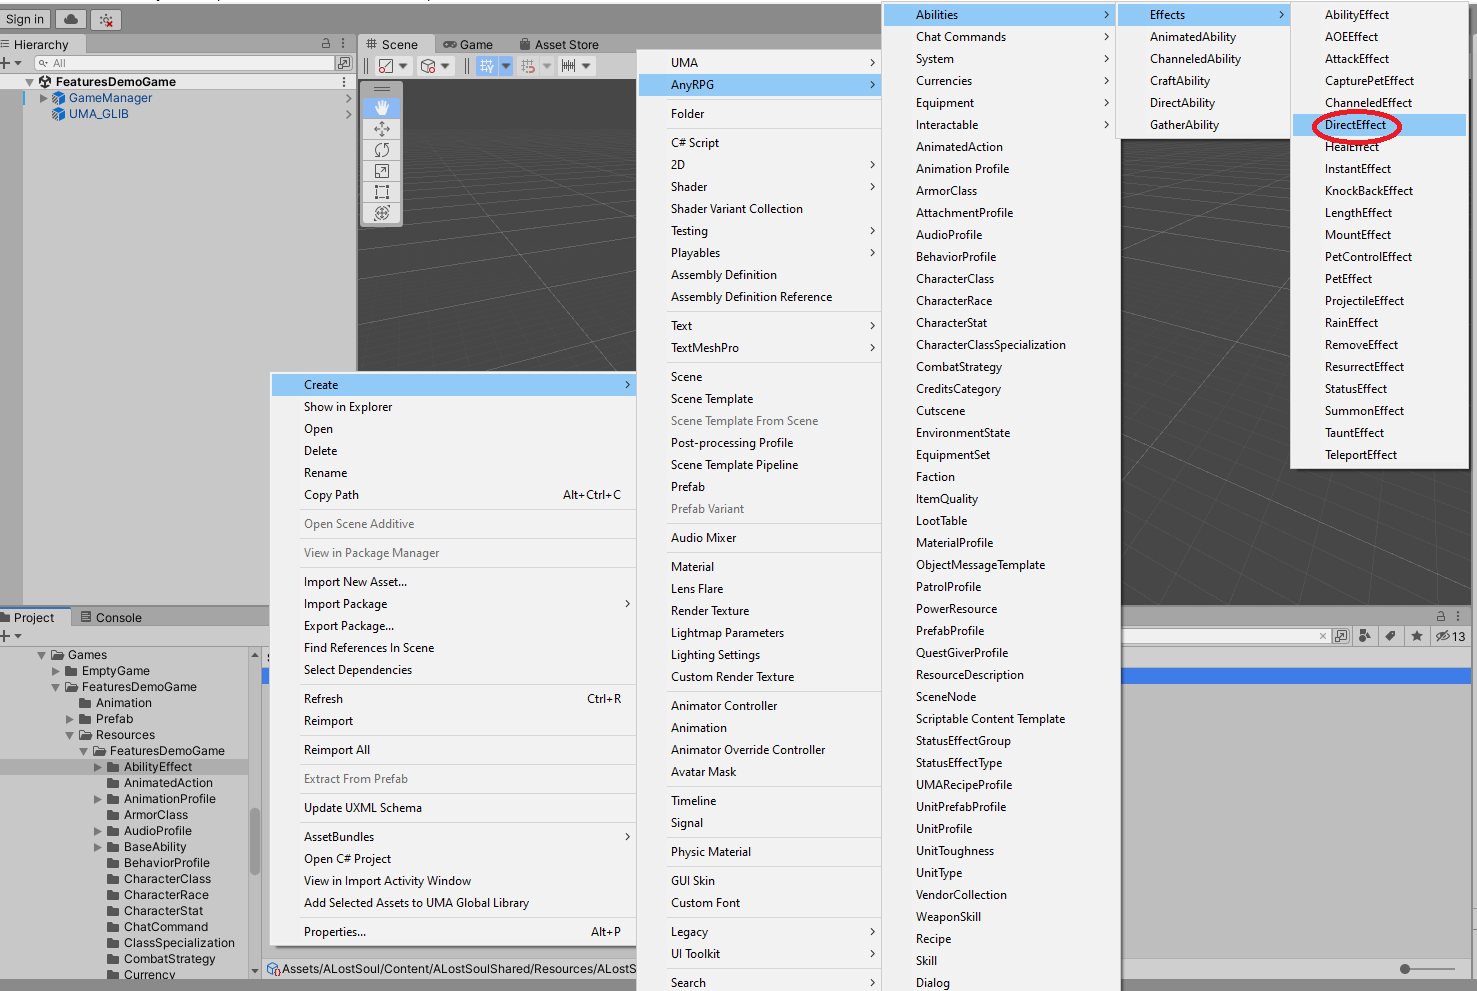
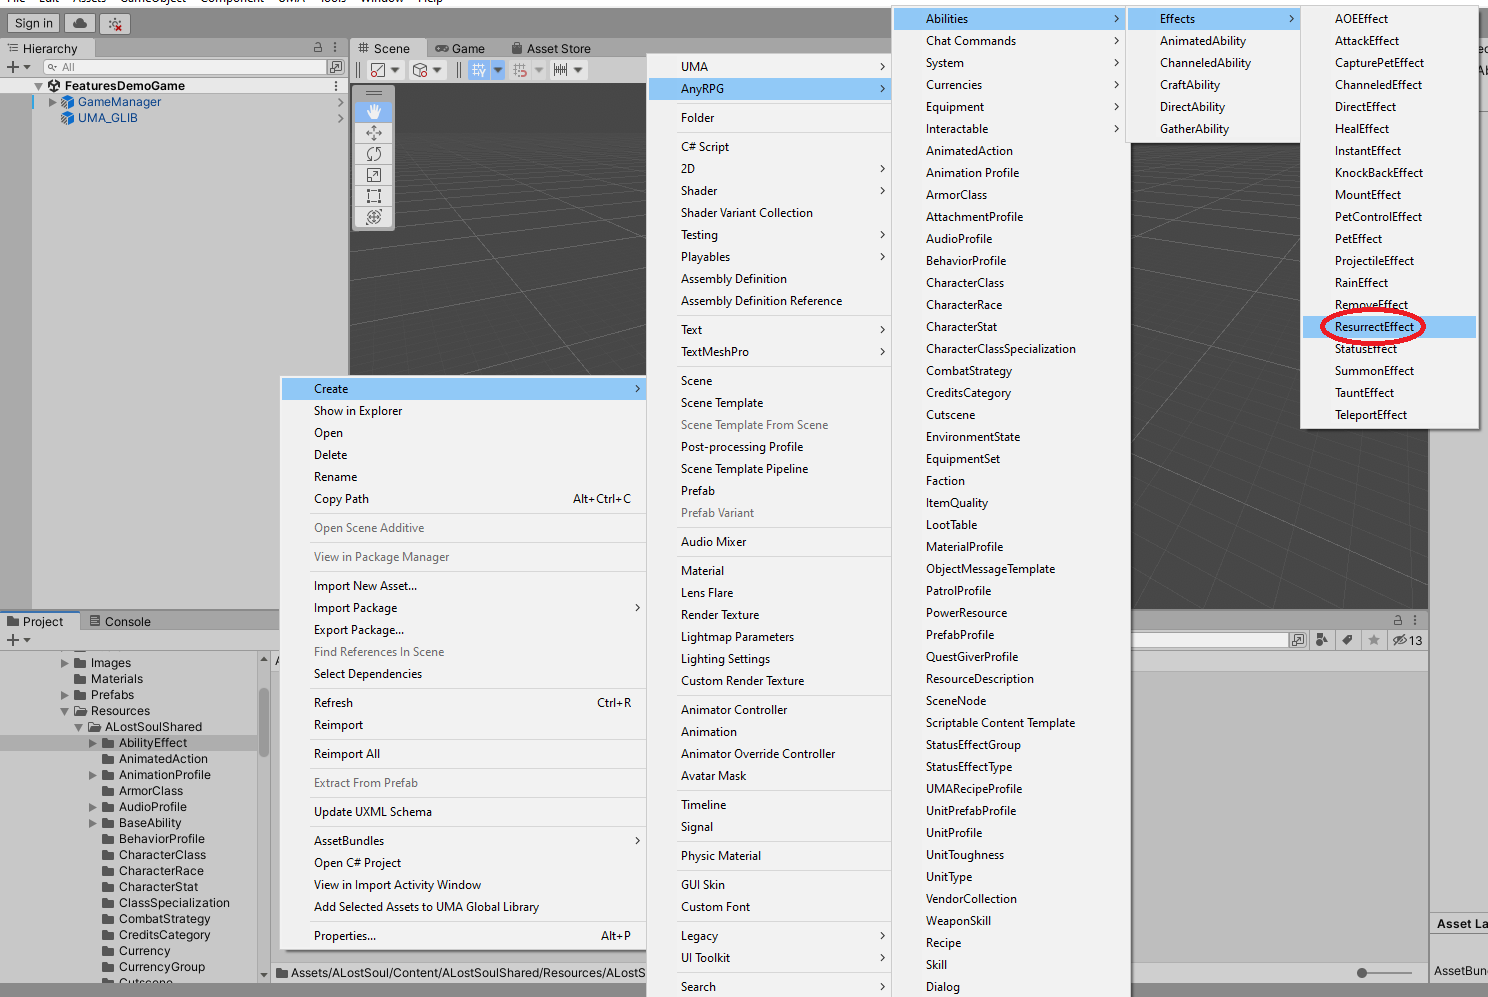
GitBook: [#106] add resurrect effect documentation

Changed region(s): [[0.0, 0.0, 1.0, 1.0], [0.7475, 0.2422, 0.7786, 0.2725]]

diff --git a/scriptable-objects/ability-effects/resurrect-effect.md b/scriptable-objects/ability-effects/resurrect-effect.md
@@ -1,5 +1,20 @@
+---
+description: A resurrect effect brings a dead character back to life.
+---
+
 # Resurrect Effect
 
-{% hint style="info" %}
-Coming Soon
-{% endhint %}
+## Creation
+
+To create a resurrect effect, find (or create) the _GameName/Resources/GameName/AbilityEffect_ folder (or any subfolder) in the project tab and right click.  Choose _Create > AnyRPG > Abilities > Effects > ResurrectEffect_.
+
+![](<../../.gitbook/assets/image (1).png>)
+
+## Properties
+
+Resurrect Effects do not have any properties other than the properties of its parent class, [Fixed Length Effect](./#fixed-length-effect-properties).
+
+## Next steps
+
+* Add a resurrect effect to an [Ability](../abilities/).
+* Add a resurrect effect to another [Ability Effect](./) to chain them together.

diff --git a/scriptable-objects/interactable-option-configurations/name-change-config.md b/scriptable-objects/interactable-option-configurations/name-change-config.md
@@ -10,7 +10,7 @@ description: >-
 
 To create a name change config, find (or create) the _GameName/Resources/GameName/InteractableOptionConfig_ folder in the project tab and right click.  Choose _Create > AnyRPG > Interactable > NameChangeConfig_.
 
-![](<../../.gitbook/assets/image (1) (1).png>)
+![](<../../.gitbook/assets/image (1) (1) (1).png>)
 
 ## Properties
 

diff --git a/scriptable-objects/ability-effects/direct-effect.md b/scriptable-objects/ability-effects/direct-effect.md
@@ -10,7 +10,7 @@ description: >-
 
 To create a direct effect, find (or create) the _GameName/Resources/GameName/AbilityEffect_ folder (or any subfolder) in the project tab and right click.  Choose _Create > AnyRPG > Abilities > Effects > DirectEffect_.
 
-![](<../../.gitbook/assets/image (1).png>)
+![](<../../.gitbook/assets/image (1) (1).png>)
 
 ## Properties
 

diff --git a/scriptable-objects/equipment-set.md b/scriptable-objects/equipment-set.md
@@ -10,7 +10,7 @@ description: >-
 
 To create an equipment set, find (or create) the _GameName/Resources/GameName/EquipmentSet_ folder in the project tab and right click.  Choose _Create > AnyRPG > EquipmentSet_.
 
-![](<../.gitbook/assets/image (1) (1) (1).png>)
+![](<../.gitbook/assets/image (1) (1) (1) (2).png>)
 
 
 
